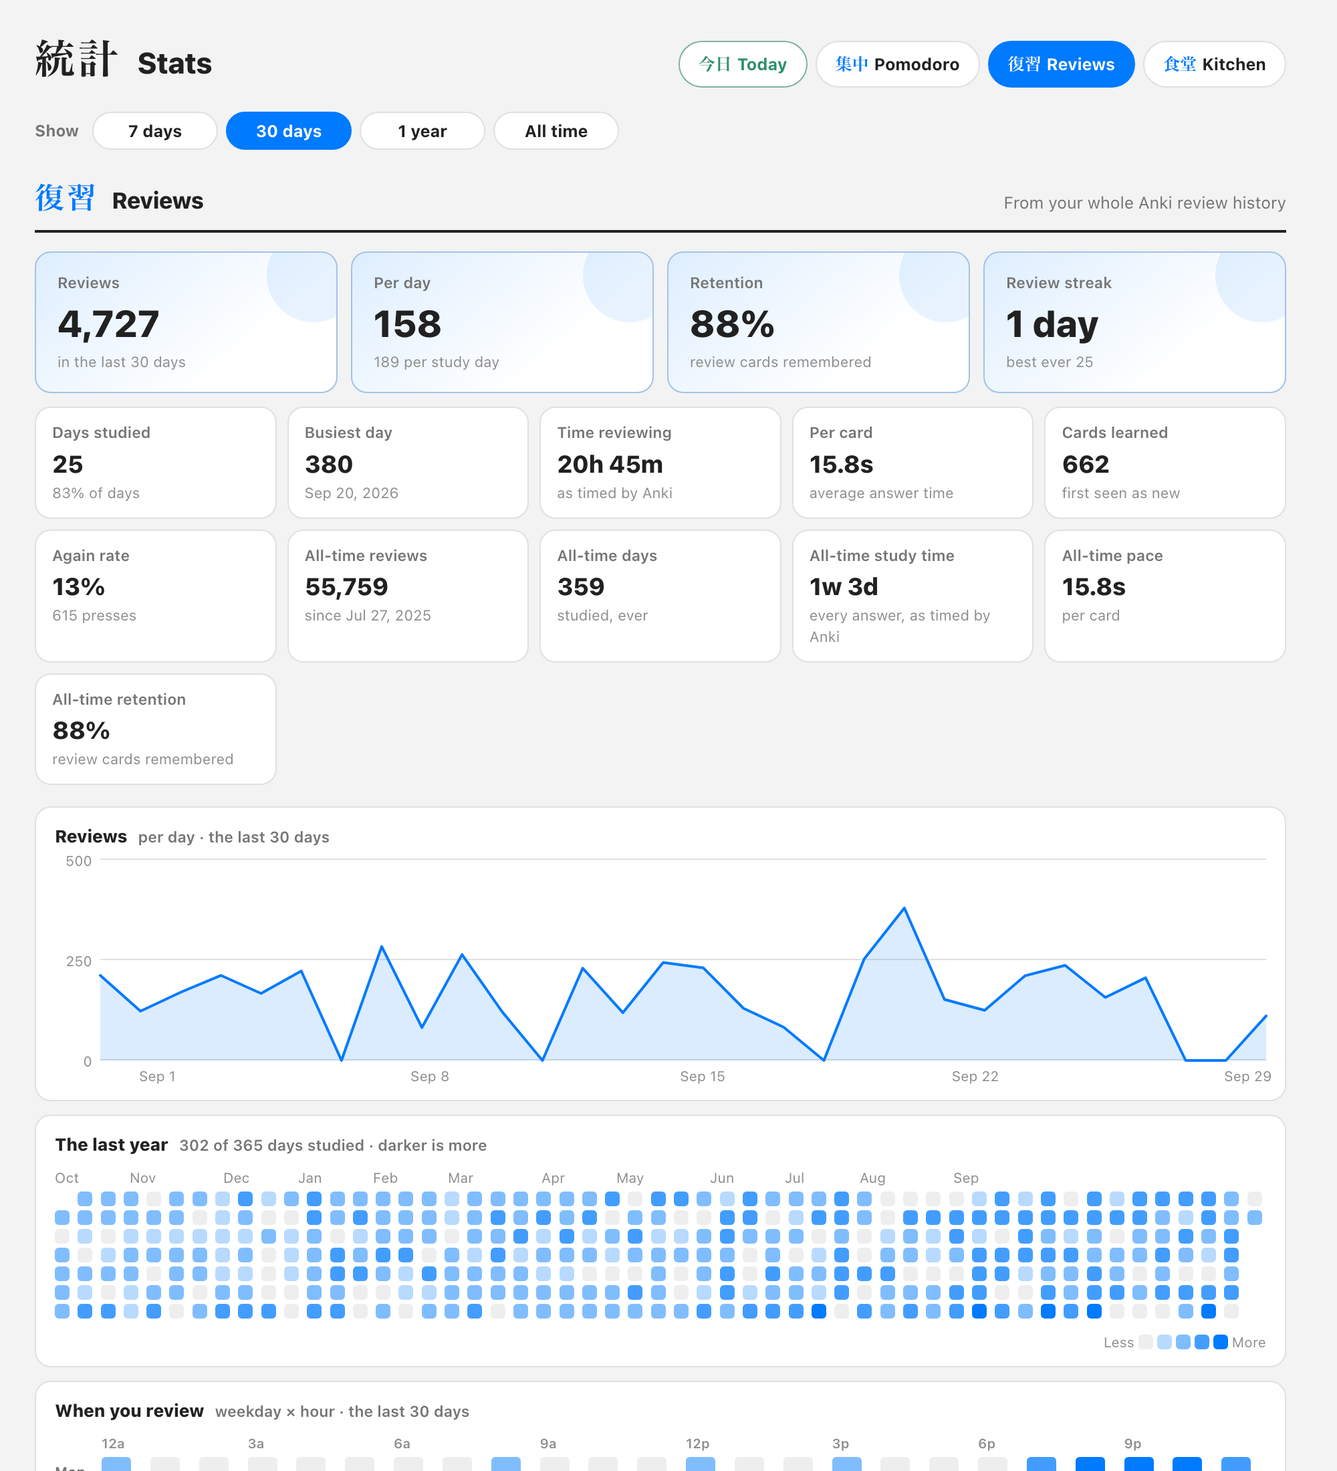
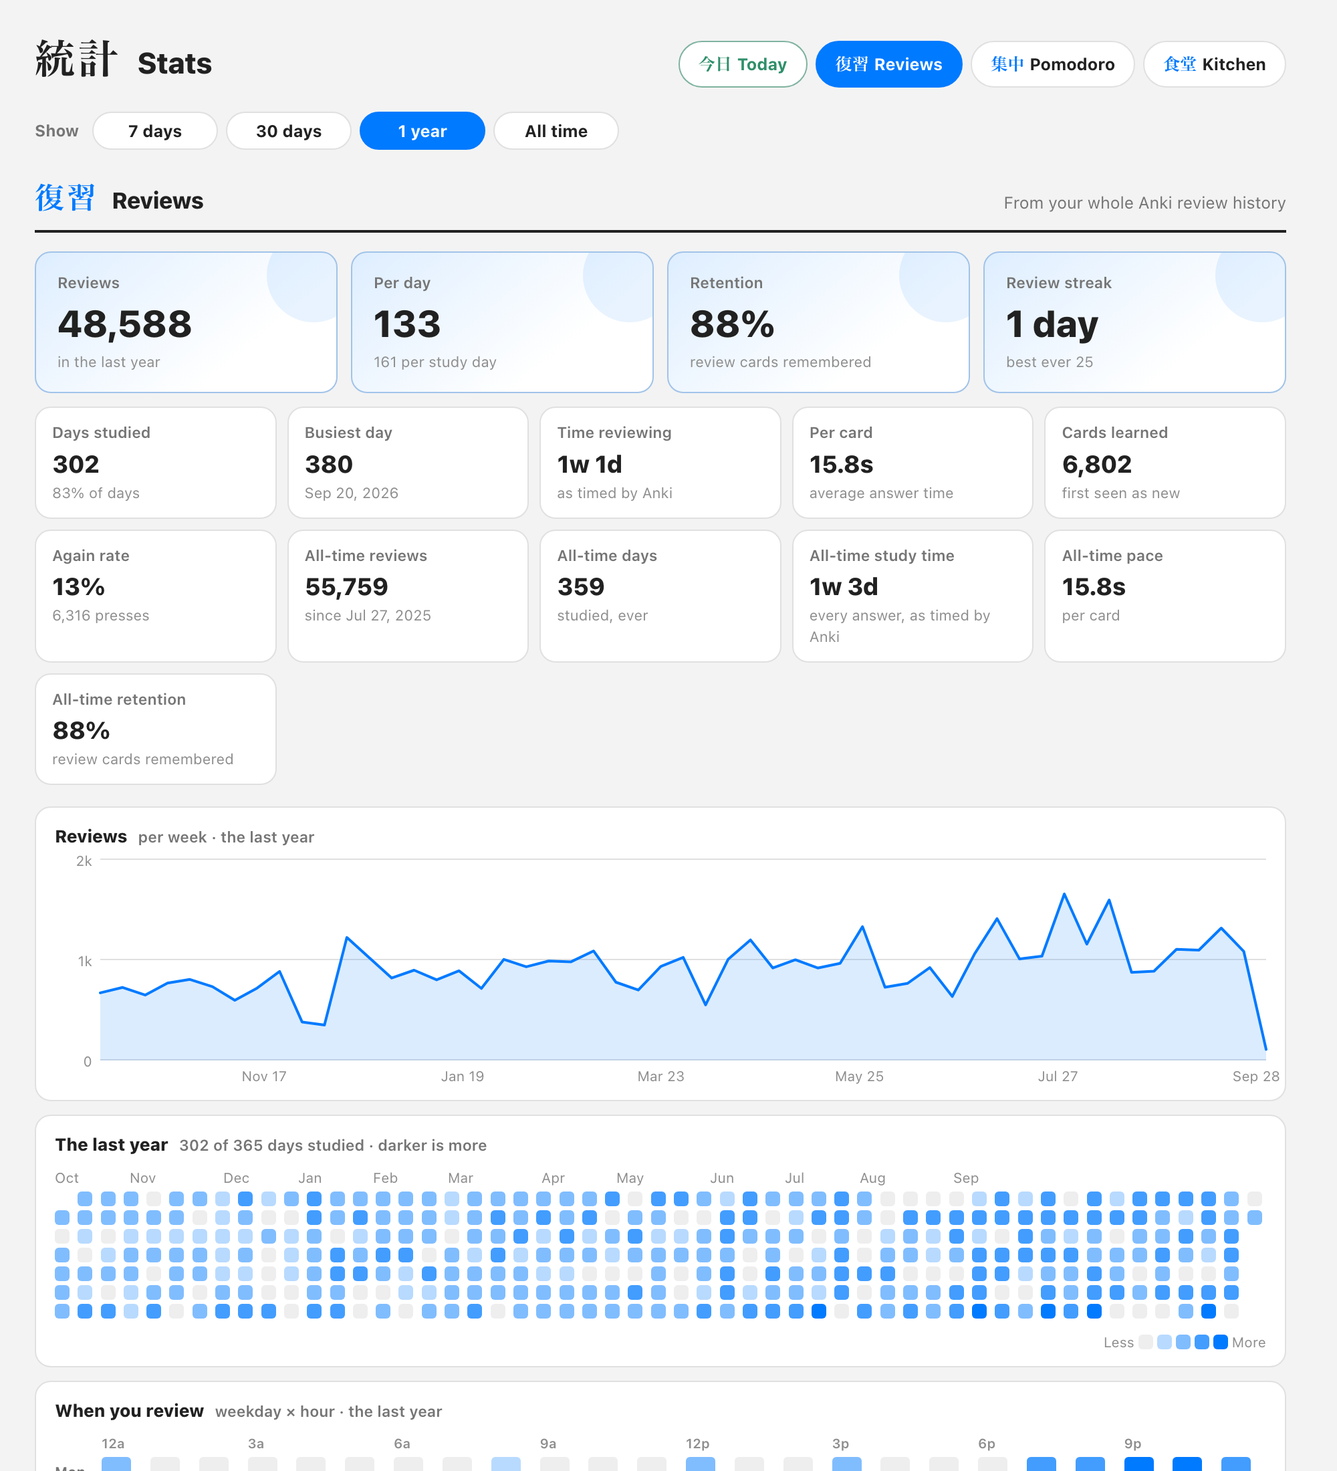
1.10.2: remembers shop folds, radio, last pet and the daily focus note; pets in adoption order; slimmer Pets tabs; Reviews before Pomodoro, a year by default; no hover text on the widget

diff --git a/onigiri_kitchen/web/kitchen.js b/onigiri_kitchen/web/kitchen.js
@@ -145,7 +145,7 @@
   let walkerTimer = rand(3, 8);
   let fireworkTimer = 0;
   let norenSway = 0;
-  let radioOn = false;
+  let radioOn = !!conf.radio_on; // (left playing last time? it still is)
   let radioTimer = 0;
   let radioStep = 3;
   let windTimer = rand(20, 40);
@@ -1349,7 +1349,7 @@
         for (let i = 0; i < 10; i++) particles.push({ x: d.x + rand(0, 16), y: d.y + rand(0, 10), vx: rand(-8, 2), vy: rand(4, 10), life: rand(2, 4), c: pick(['#f7c6d4', '#f2a9c0']), type: 'petal' });
         OKSound.pluck(8);
         break;
-      case 'radio': radioOn = !radioOn; OKSound.blip(); break;
+      case 'radio': radioOn = !radioOn; conf.radio_on = radioOn; send('conf', JSON.stringify({ radio_on: radioOn })); OKSound.blip(); break;
       case 'tanuki':
         OKSound.koto(98, 0, 0.35); OKSound.koto(98, 0.18, 0.35);
         spawnHearts(d.x + 8, d.y + 10, 1);
@@ -1554,7 +1554,8 @@
   function petList() {
     if (!pet.species) return [];
     // (a pet you've put in storage from the shop isn't about: no tab, bowl or bed)
-    return [pet.species, ...['cat', 'puffle', 'bird'].filter((x) => x !== pet.species && S.owned.includes(PET_SHOP[x]) && !S.hidden.includes(PET_SHOP[x]))];
+    const got = (x) => S.owned.indexOf(PET_SHOP[x]); // the order you adopted them
+    return [pet.species, ...['cat', 'puffle', 'bird'].filter((x) => x !== pet.species && got(x) >= 0 && !S.hidden.includes(PET_SHOP[x])).sort((a, b) => got(a) - got(b))];
   }
   const petOf = (x) => (x === pet.species ? pet : PETS[x]);
   // is the toy out for the pet that walks about on its own (your first pet)?
@@ -2800,6 +2801,7 @@
     const panel = $('ok-pet');
     if (!panel || panel.hidden) return;
     const list = petList();
+    if (viewSp == null && list.includes(conf.last_pet)) viewSp = conf.last_pet; // (the one you looked at last time)
     if (!list.includes(viewSp)) viewSp = pet.species;
     // draw the card for the pet being viewed (everything below reads `pet`)
     const real = pet;
@@ -2935,7 +2937,13 @@
       }
       b.appendChild(cv);
       b.insertAdjacentHTML('beforeend', `<span>${esc(p0.name || x)}</span>`);
-      b.onclick = () => { viewSp = x; OKSound.blip(); voice(x); renderPetPanel(); };
+      b.onclick = () => {
+        viewSp = x;
+        if (conf.last_pet !== x) { conf.last_pet = x; send('conf', JSON.stringify({ last_pet: x })); }
+        OKSound.blip();
+        voice(x);
+        renderPetPanel();
+      };
       nav.appendChild(b);
     }
   }
@@ -3001,7 +3009,7 @@
     html += `<div class="ok-acc-note">Unlocked by caring: pets count up to ${PETS_PER_DAY} a day (${pet.petsToday || 0} today).</div>`;
     box.innerHTML = html;
     box.querySelectorAll('[data-color]').forEach((b) => b.addEventListener('click', () => setPetColor(vs, b.dataset.color)));
-    box.querySelectorAll('[data-shop]').forEach((b) => b.addEventListener('click', () => { const ckk = colorKind(vs); shopClosed.delete(`${ckk.noun[0].toUpperCase()}${ckk.noun.slice(1)} colours`); togglePanel('ok-decor'); setTimeout(() => { const el = $('ok-colors-' + vs); if (el) el.scrollIntoView({ block: 'start' }); }, 30); }));
+    box.querySelectorAll('[data-shop]').forEach((b) => b.addEventListener('click', () => { const ckk = colorKind(vs); if (shopClosed.delete(`${ckk.noun[0].toUpperCase()}${ckk.noun.slice(1)} colours`)) { conf.shop_closed = [...shopClosed]; send('conf', JSON.stringify({ shop_closed: conf.shop_closed })); } togglePanel('ok-decor'); setTimeout(() => { const el = $('ok-colors-' + vs); if (el) el.scrollIntoView({ block: 'start' }); }, 30); }));
     box.querySelectorAll('[data-style]').forEach((b) => b.addEventListener('click', () => {
       const key = b.dataset.style;
       let value = b.dataset.value;
@@ -3216,7 +3224,8 @@
   const residents = [];
 
   function syncResidents() {
-    const want = catalog.filter((c) => isCompanion(c) && has(c.id) && !(c.kind === 'pet' && c.species === pet.species)).map((c) => c.id);
+    const want = catalog.filter((c) => isCompanion(c) && has(c.id) && !(c.kind === 'pet' && c.species === pet.species)).map((c) => c.id)
+      .sort((a, b) => S.owned.indexOf(a) - S.owned.indexOf(b)); // (beds and bowls follow the order you got them)
     for (let i = residents.length - 1; i >= 0; i--) if (!want.includes(residents[i].id)) residents.splice(i, 1);
     setTimeout(assignSlots, 0);
     want.forEach((id, i) => {
@@ -4645,7 +4654,7 @@
   $('ok-t-set').addEventListener('click', () => togglePanel('ok-settings'));
   $('ok-report').addEventListener('click', () => send('report'));
   $('ok-idea').addEventListener('click', () => send('idea'));
-  $('ok-stats').addEventListener('click', () => { OKSound.pluck(4); send('stats'); });
+  setTip($('ok-b-stats'), 'You in numbers');
   $('ok-b-stats').addEventListener('click', () => { OKSound.pluck(4); send('stats'); });
   $('ok-tour-replay').addEventListener('click', () => guardSettings(() => { $('ok-settings').hidden = true; startTour(); }));
   $('ok-b-rush').addEventListener('click', () => {
@@ -4844,7 +4853,8 @@
       h.innerHTML = `<i class="ok-caret" aria-hidden="true"></i><b class="jp">${jp}</b> ${en}<span>${sub}</span>`;
       h.addEventListener('click', () => {
         if (shopClosed.has(en)) shopClosed.delete(en); else shopClosed.add(en);
-        try { localStorage.setItem('okShopClosed', JSON.stringify([...shopClosed])); } catch (e) {}
+        conf.shop_closed = [...shopClosed];
+        send('conf', JSON.stringify({ shop_closed: conf.shop_closed }));
         applyShopFolds(grid);
       });
       grid.appendChild(h);
@@ -4932,8 +4942,7 @@
     }
     applyShopFolds(grid);
   }
-  let shopClosed = new Set();
-  try { shopClosed = new Set(JSON.parse(localStorage.getItem('okShopClosed') || '[]')); } catch (e) {}
+  let shopClosed = new Set(Array.isArray(conf.shop_closed) ? conf.shop_closed : []);
   function applyShopFolds(grid) {
     let closed = false;
     for (const el of grid.children) {
@@ -5549,11 +5558,9 @@
 
   // "Focus started" only for the day's first session; after that the timer says it
   function focusStartToast() {
-    const day = S.today.date || new Date().toDateString();
-    try {
-      if (localStorage.getItem('okFocusToast') === day) return;
-      localStorage.setItem('okFocusToast', day);
-    } catch (e) {}
+    if ((S.today || {}).focus_toast) return;
+    S.today = Object.assign({}, S.today, { focus_toast: true });
+    send('focustoast');
     toast('集中 · Focus started. The kitchen will prep while you study.');
   }
 

diff --git a/onigiri_kitchen/web/kitchen.css b/onigiri_kitchen/web/kitchen.css
@@ -1285,16 +1285,16 @@ button.ok-grid-head:focus-visible { outline: 2px solid var(--shu); }
 .ok-caret { width: 0; height: 0; align-self: center; border-left: 4px solid transparent; border-right: 4px solid transparent; border-top: 6px solid var(--ink-3); transition: transform 0.15s; margin-right: 2px; }
 button.ok-grid-head.closed .ok-caret { transform: rotate(-90deg); }
 
-/* the pet card's tabs, along the bottom: one small tab per pet */
-.ok-pet-switch { display: flex; justify-content: center; gap: 8px; padding: 10px 14px 12px; border-top: 1px solid var(--line); background: var(--paper-2); }
+/* the pet card's tabs, along the bottom: a slim strip, sprite and name side by side */
+.ok-pet-switch { display: flex; justify-content: center; gap: 6px; padding: 6px 12px 7px; border-top: 1px solid var(--line); background: var(--paper-2); }
 .ok-pet-switch[hidden] { display: none; }
 .ok-pet-switch button {
-  all: unset; box-sizing: border-box; flex: 0 1 112px; min-width: 0; display: flex; flex-direction: column; align-items: center; justify-content: center; gap: 3px;
-  padding: 6px 8px 5px; border-radius: 10px; border: 1.5px solid var(--line); background: var(--card); cursor: pointer;
+  all: unset; box-sizing: border-box; flex: 0 1 108px; min-width: 0; display: flex; flex-direction: row; align-items: center; justify-content: center; gap: 5px;
+  height: 28px; padding: 0 8px; border-radius: 8px; border: 1.5px solid var(--line); background: var(--card); cursor: pointer;
   font: 700 11.5px var(--sans); color: var(--ink-2);
 }
-.ok-pet-switch button canvas { display: block; width: 36px; height: 30px; image-rendering: pixelated; }
-.ok-pet-switch button span { max-width: 100%; overflow: hidden; text-overflow: ellipsis; white-space: nowrap; }
+.ok-pet-switch button canvas { display: block; flex: none; width: 24px; height: 20px; image-rendering: pixelated; }
+.ok-pet-switch button span { overflow: hidden; text-overflow: ellipsis; white-space: nowrap; }
 .ok-pet-switch button:hover { border-color: var(--shu); }
 .ok-pet-switch button.on { border-color: var(--shu); background: color-mix(in srgb, var(--shu) 14%, var(--card)); color: var(--ink); }
 .ok-pet-switch button:focus-visible { outline: 2px solid var(--shu); outline-offset: 1px; }

diff --git a/dev/preview.html b/dev/preview.html
@@ -39,7 +39,7 @@ window.OK_INIT = {
   state: {mon: mock.mon, owned: mock.owned, hidden: [], guestsWaiting: guests.length, servedTotal: 0, today:{date:'2026-09-25', reviews:142, focus_done:2}, firstSeen:'2026-09-01', tutorialDone: !q.has('tour'), puffleColor: q.get('puffle') || (SPECIES_ID==='puffle' ? 'blue' : ''), puffleColors: (q.get('puffles') || (SPECIES_ID==='puffle' ? (q.get('puffle')||'blue') : '')).split(',').filter(Boolean), birdColor: q.get('bird') || (SPECIES_ID==='bird' ? 'grey' : ''), birdColors: (q.get('birds') || (SPECIES_ID==='bird' ? (q.get('bird')||'grey') : '')).split(',').filter(Boolean)},
   takeout: q.has('clean') ? {count:0, mon:0} : {count: 2, mon: 4},
   catalog: PD.catalog,
-  conf: {"focus_minutes": 25, "short_break_minutes": 5, "long_break_minutes": 15, "rounds_before_long_break": 4, "focus_card_goal": 0, "auto_open_kitchen_on_break": true, "auto_start_next_focus": false, "widget_click_opens_kitchen": true, "show_timer_chip": true, "show_timer_chip_in_reviewer": true, "reviews_per_guest": 10, "sound": true, "volume": 0.5, "shortcut": "Ctrl+Shift+K", "show_home_widget_without_onigiri": true, "celebrate_deck_finish": true, "pause_focus_when_idle": true, "idle_pause_minutes": 2, "clock_style": q.get("clock") || "analog", "theme_mode": q.get('theme') || 'anki'},
+  conf: {"focus_minutes": 25, "short_break_minutes": 5, "long_break_minutes": 15, "rounds_before_long_break": 4, "focus_card_goal": 0, "auto_open_kitchen_on_break": true, "auto_start_next_focus": false, "widget_click_opens_kitchen": true, "show_timer_chip": true, "show_timer_chip_in_reviewer": true, "reviews_per_guest": 10, "sound": true, "volume": 0.5, "shortcut": "Ctrl+Shift+K", "show_home_widget_without_onigiri": true, "celebrate_deck_finish": true, "pause_focus_when_idle": true, "idle_pause_minutes": 2, "last_pet": q.get('lastpet') || "", "clock_style": q.get("clock") || "analog", "theme_mode": q.get('theme') || 'anki'},
   timer: {pomo: pomo(), sound:true, volume:0.5}
 };
 window.pycmd = function(msg, cb){

diff --git a/onigiri_kitchen/web/stats.js b/onigiri_kitchen/web/stats.js
@@ -48,17 +48,17 @@
   const hourName = (h) => hourLabel(h).replace('a', ' am').replace('p', ' pm');
 
   // the page being shown (the window always opens on Today)
-  const PAGES = ['today', 'pomo', 'rev', 'kitchen'];
+  const PAGES = ['today', 'rev', 'pomo', 'kitchen'];
   let page = 'today';
   try {
     const savedPage = new URLSearchParams(location.search).get('page'); // (always opens on Today)
     if (savedPage && PAGES.includes(savedPage)) page = savedPage;
   } catch (e) {}
 
-  // the chosen range (remembered between visits)
-  let range = '30';
+  // the chosen range
+  let range = '365'; // a year, unless you pick another while the window is open
   try {
-    const saved = new URLSearchParams(location.search).get('range') || localStorage.getItem('oksRange');
+    const saved = new URLSearchParams(location.search).get('range');
     if (saved && RANGES.some((r) => r[0] === saved)) range = saved;
   } catch (e) {}
   function rangeStart(firstEver) {
@@ -519,7 +519,6 @@
     if (!t) return;
     if (t.dataset.range) {
       range = t.dataset.range;
-      try { localStorage.setItem('oksRange', range); } catch (err) {}
       render();
     } else {
       page = t.dataset.page;

diff --git a/onigiri_kitchen/web/widget.js b/onigiri_kitchen/web/widget.js
@@ -247,8 +247,7 @@
     const due = t && t.due ? t.due.total : 0;
     const leftTip = t ? (due ? `About ${mins(t.estimateSeconds)} left: ${due} cards due (${t.due.new} new, ${t.due.learn} learning, ${t.due.review} review), at your own pace` : 'Nothing due right now') : '';
     const left = t ? stat(due ? `~${mins(t.estimateSeconds)}` : 'done', due ? `~${mins(t.estimateSeconds)}` : 'done', due ? 'left' : 'all due', due ? 'left' : 'due', esc(leftTip)).replace('okw-stat"', 'okw-stat okw-stat-big"') : '';
-    const allTip = st.hours != null ? `\nAll time: ${Number(st.total || 0).toLocaleString()} reviews in ${st.hours} hours.` : '';
-    el.title = `Open Onigiri Kitchen${leftTip ? `\n${leftTip}.` : ''}${allTip}`;
+    el.removeAttribute('title'); // (no hover text on the card itself: each number explains itself)
     const stats = d.stats
       ? stat(num(st.total), short(st.total), 'reviews', 'reviews', `${Number(st.total || 0).toLocaleString()} reviews all time`) +
         stat(num(st.average), short(st.average), 'per day', '/day', 'Average reviews on the days you studied') +

diff --git a/onigiri_kitchen/web/kitchen.html b/onigiri_kitchen/web/kitchen.html
@@ -136,12 +136,6 @@
       </select></span></label>
       <label>Volume <span><input type="range" name="volume" min="0" max="1" step="0.05"></span></label>
       <div class="ok-report">
-        <div class="ok-report-head"><b class="jp">統計</b> Stats: your focus, reviews and kitchen in numbers</div>
-        <div class="ok-report-btns">
-          <button type="button" class="ok-foot-btn" id="ok-stats">📊 Open stats</button>
-        </div>
-      </div>
-      <div class="ok-report">
         <div class="ok-report-head"><b class="jp">目安箱</b> Ideas or problems? <em id="ok-version"></em></div>
         <div class="ok-report-btns">
           <button type="button" class="ok-foot-btn" id="ok-idea">💡 Suggest a feature</button>

diff --git a/onigiri_kitchen/web/stats.html b/onigiri_kitchen/web/stats.html
@@ -6,8 +6,8 @@
     </div>
     <nav class="oks-nav" role="tablist">
       <button type="button" class="oks-today-tab" data-page="today" role="tab"><span class="jp">今日</span>Today</button>
-      <button type="button" data-page="pomo" role="tab"><span class="jp">集中</span>Pomodoro</button>
       <button type="button" data-page="rev" role="tab"><span class="jp">復習</span>Reviews</button>
+      <button type="button" data-page="pomo" role="tab"><span class="jp">集中</span>Pomodoro</button>
       <button type="button" data-page="kitchen" role="tab"><span class="jp">食堂</span>Kitchen</button>
     </nav>
   </header>

diff --git a/onigiri_kitchen/main.py b/onigiri_kitchen/main.py
@@ -23,7 +23,7 @@ from .state import BIRD_COLORS, CATALOG, PET_FOR_SPECIES, CATALOG_BY_ID, anki_to
 ADDON_DIR = os.path.dirname(__file__)
 PACKAGE = mw.addonManager.addonFromModule(__name__)
 CMD_PREFIX = "okitchen:"
-VERSION = "1.10.1"
+VERSION = "1.10.2"
 REPO_URL = "https://github.com/thussenthan/onigiri-kitchen"
 AUTHOR_NAME = "Thussenthan Walter-Angelo"
 AUTHOR_URL = "https://github.com/thussenthan"
@@ -51,6 +51,9 @@ DEFAULT_CONF: Dict[str, Any] = {
     "celebrate_deck_finish": True,
     "pause_focus_when_idle": True,
     "idle_pause_minutes": 2,
+    "last_pet": "",  # which pet's tab the Pets card opened on last
+    "radio_on": False,  # the shelf radio, if you left it playing
+    "shop_closed": [],  # shop sections you folded away
     "onigiri_progress_popups": False,  # Onigiri's "Daily Special: 25% / 50% / 75% complete" pop-ups
 }
 
@@ -667,6 +670,10 @@ def handle_kitchen_cmd(cmd: str, arg: str, dialog: Optional[KitchenDialog]) -> A
     if cmd == "tutorial":
         state.set_tutorial_done(arg != "reset")
         return None
+    if cmd == "focustoast":
+        state.data["today"]["focus_toast"] = True  # today's "Focus started" note has been shown
+        state.save_soon()
+        return None
     if cmd == "author":
         openLink(AUTHOR_URL)
         return None
@@ -1126,7 +1133,7 @@ def kitchen_widget(deck_browser: Any, content: Any) -> None:
         print(f"Onigiri Kitchen: widget failed: {e}")
         return
     content.stats += (
-        f'<div class="okw{" okw-plain" if plain else ""}" role="button" tabindex="0" title="Open Onigiri Kitchen">'
+        f'<div class="okw{" okw-plain" if plain else ""}" role="button" tabindex="0" aria-label="Open Onigiri Kitchen">'
         f'<script type="application/json" class="okw-data">{data}</script>'
         '<div class="okw-in"><canvas class="okw-scene" width="64" height="40"></canvas>'
         '<div class="okw-info"></div></div></div>'

diff --git a/onigiri_kitchen/state.py b/onigiri_kitchen/state.py
@@ -633,7 +633,9 @@ class KitchenState:
         self.apply_companion_perks()
 
     def all_pets(self) -> List["petmod.Pet"]:
-        return [self.pet] + [self.extra[sp] for sp in SPECIES_ORDER if sp in self.extra]
+        # your first pet, then the others in the order you adopted them
+        order = sorted(self.extra, key=lambda sp: self.data["owned"].index(PET_FOR_SPECIES[sp]) if PET_FOR_SPECIES[sp] in self.data["owned"] else 99)
+        return [self.pet] + [self.extra[sp] for sp in order]
 
     def get_pet(self, species: Optional[str]) -> "petmod.Pet":
         return self.extra.get(species or "") or self.pet

diff --git a/ANKIWEB.md b/ANKIWEB.md
@@ -37,7 +37,7 @@ You study, guests arrive. You take a break, you get to enjoy them.
 - **A real-time clock:** a wooden wall clock, or tap it for a flip clock.
 - **Candles on the tables and a green and red pair on the shelf:** click one to light or snuff it. Lanterns and candles light themselves at dusk and go out at dawn.
 - **Confetti and sakura petals** when you finish a deck: 紙吹雪 bursts in from the sides and petals drift down over the "Congratulations" screen, with a little fanfare.
-- **統計 Stats, lots of them:** The Stats button at the bottom of the kitchen (or ⚙ → Open stats) opens a window with a page each for Today, Pomodoro, Reviews and Kitchen (the last three for the last 7 days, 30 days, year or all time). Today's cards, time, pace and how long what's due will take at your pace; pomodoro focus time, streaks, completion rate, best days and time-of-day patterns; your Anki reviews with a year heatmap, retention, answer buttons and your collection's new, young and mature cards; and the kitchen's guests, mon and pet.
+- **統計 Stats, lots of them:** The Stats button at the bottom of the kitchen ("You in numbers") opens a window with a page each for Today, Reviews, Pomodoro and Kitchen (the last three show a year by default, or 7 days, 30 days or all time). Today's cards, time, pace and how long what's due will take at your pace; pomodoro focus time, streaks, completion rate, best days and time-of-day patterns; your Anki reviews with a year heatmap, retention, answer buttons and your collection's new, young and mature cards; and the kitchen's guests, mon and pet.
 - **Home-screen widget** with your all-time reviews, daily average, days studied, longest streak and total time studied (big 2×2 widgets add a scene with all your pets (they nap while you focus), progress to the next guest, and how long today's due cards will take at your pace): add it to your Onigiri main menu from Onigiri's layout editor (or see it under your decks without Onigiri).
 - **Several pets, your pick.** Adopt more than one and flip between them on the Pets card: each has its own care, keepsakes and food dish. **Collect all** is on the home-screen widget too, and unsaved settings ask before they're lost.
 - **A guided tour** the first time you open it, and a **目安箱 suggestion box** for ideas and bug reports.

diff --git a/README.md b/README.md
@@ -67,7 +67,7 @@ built as a companion to the [Onigiri](https://ankiweb.net/shared/info/1011095603
   go out at dawn.
 - **紙吹雪 confetti and sakura petals** when you finish a deck: confetti bursts in from the sides and petals drift
   down from the top of the "Congratulations" screen, with a little fanfare.
-- **統計 Stats.** The **Stats** button at the bottom of the kitchen (or ⚙ → Open stats) opens a window with a page each for Today, Pomodoro, Reviews and Kitchen, full of numbers and charts, for the last 7 days, 30 days, year or
+- **統計 Stats.** The **Stats** button at the bottom of the kitchen ("You in numbers") opens a window with a page each for Today, Reviews, Pomodoro and Kitchen, full of numbers and charts, for the last 7 days, 30 days, year or
   all time. **Today:** cards, time, pace, retention, and how long your due cards will take at your own
   pace. **Pomodoro:** focus time, streaks,
   completion rate, cards per session, best days, breaks and festival nights, time of day and weekday patterns, the

diff --git a/onigiri_kitchen/README.md b/onigiri_kitchen/README.md
@@ -52,7 +52,7 @@ Once you have a puffle, puffle colours (250 mon each), an igloo lamp and penguin
 window appear too. Finishing a deck right after reviewing sets off 紙吹雪 confetti and falling sakura petals (turn it off with
 `celebrate_deck_finish` in the config).
 
-**統計 Stats:** the Stats button at the bottom of the kitchen (or ⚙ → Open stats) shows, for the last 7 days, 30 days, year or all time, your pomodoro numbers (focus time, streaks, completion rate, cards per
+**統計 Stats:** the Stats button at the bottom of the kitchen shows, for the last 7 days, 30 days, year or all time, your pomodoro numbers (focus time, streaks, completion rate, cards per
 session, time-of-day and weekday patterns), your Anki reviews (year heatmap, retention, answer buttons, your
 collection) and the kitchen's (guests, mon, pet). Pomodoro and kitchen numbers are recorded from 1.8.0 on.
 
